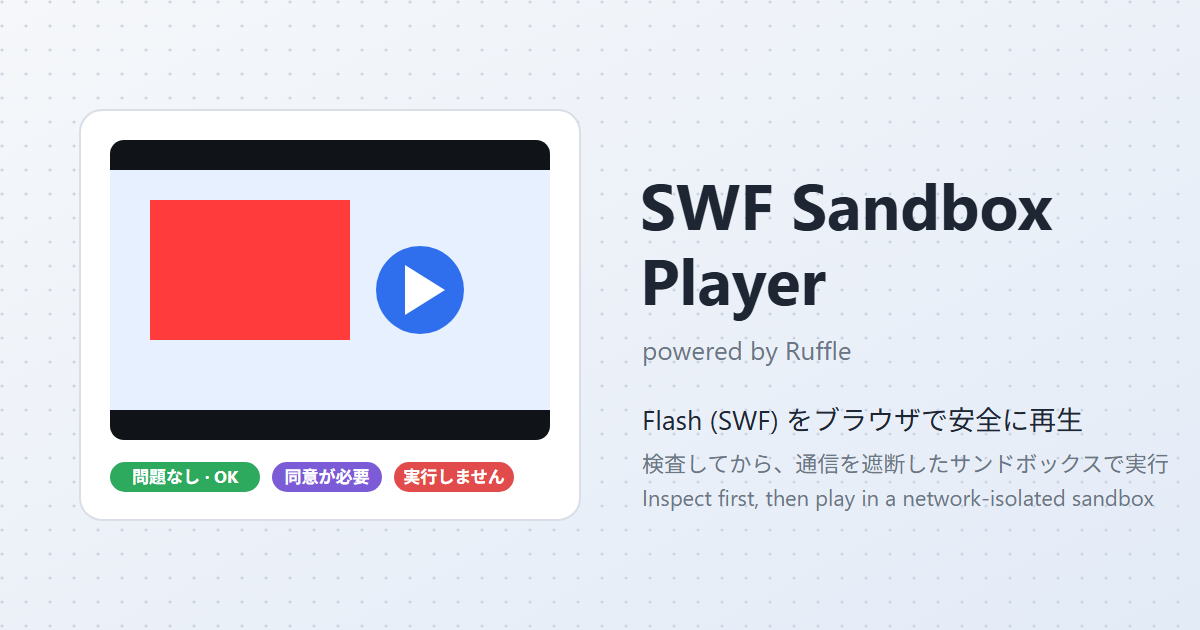
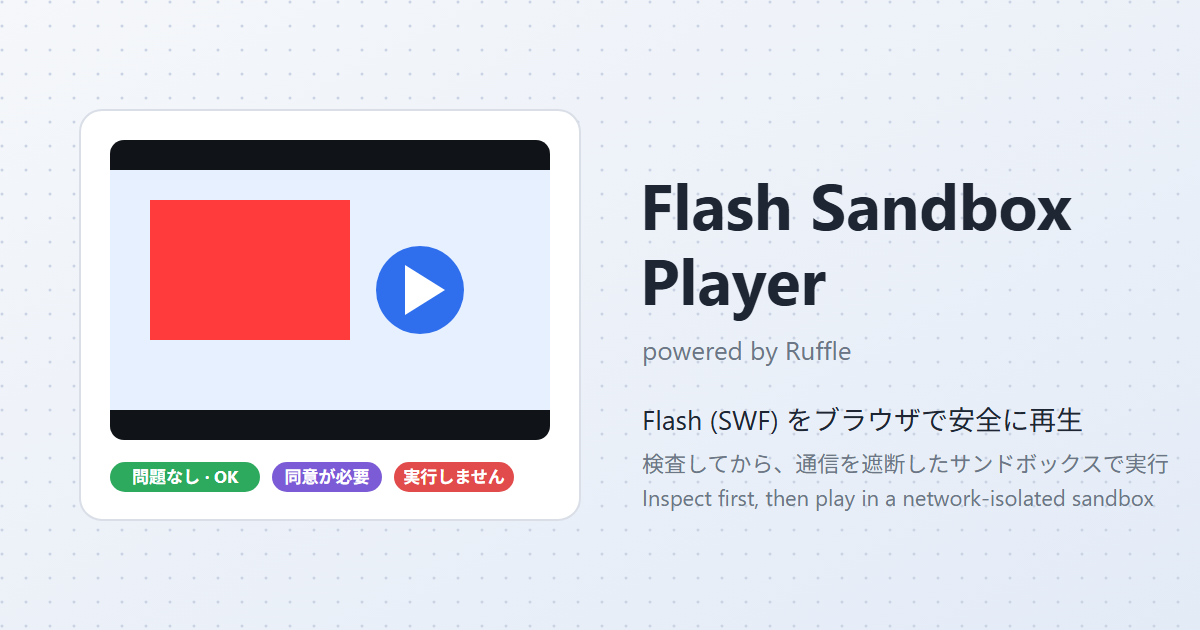
サービス名を Flash Sandbox Player に変更、iOS の音声対策、音のテスト用 SWF を追加
- 最初のタップ/クリック時に無音の <audio> を再生して音声セッションを「再生」に切り替える（iframe 内）
- ホストページでも audioSession を playback に設定
- ドロップ領域に音のテスト用 SWF（440Hz）のダウンロードリンク
- 名称・OGP・OG 画像・README・パッケージ名を Flash Sandbox Player に

Changed region(s): [[0.5242, 0.2714, 0.8942, 0.3921]]

diff --git a/public/i18n.js b/public/i18n.js
@@ -201,6 +201,7 @@ S.ja = {
   "btn.fullscreen": "全画面",
   "st.audioSuspended": "音声はまだ有効になっていません。再生画面を一度クリックすると有効になります。",
   "st.audioSuspendedTouch": "音声はまだ有効になっていません。再生画面を一度タップすると有効になります。iPhone / iPad で音が出ない場合は、本体横のサイレントスイッチと音量も確認してください。",
+  "dz.soundTest": "音のテスト用 SWF（440Hz の音が 1.5 秒鳴ります）",
 };
 
 S.en = {
@@ -389,6 +390,7 @@ S.en = {
   "btn.fullscreen": "Fullscreen",
   "st.audioSuspended": "Audio is not enabled yet. Click the player once to enable it.",
   "st.audioSuspendedTouch": "Audio is not enabled yet. Tap the player once to enable it. On iPhone / iPad, also check the silent switch and the volume.",
+  "dz.soundTest": "Sound test SWF (plays a 440 Hz tone for 1.5 s)",
 };
 
 S["zh-Hans"] = {
@@ -577,6 +579,7 @@ S["zh-Hans"] = {
   "btn.fullscreen": "全屏",
   "st.audioSuspended": "音频尚未启用。点击一次播放画面即可启用。",
   "st.audioSuspendedTouch": "音频尚未启用。点按一次播放画面即可启用。iPhone / iPad 没有声音时，请同时检查静音开关和音量。",
+  "dz.soundTest": "声音测试用 SWF（播放 1.5 秒的 440 Hz 音）",
 };
 
 S["zh-Hant"] = {
@@ -765,6 +768,7 @@ S["zh-Hant"] = {
   "btn.fullscreen": "全螢幕",
   "st.audioSuspended": "音訊尚未啟用。點一下播放畫面即可啟用。",
   "st.audioSuspendedTouch": "音訊尚未啟用。點一下播放畫面即可啟用。iPhone / iPad 沒有聲音時，請同時檢查靜音開關和音量。",
+  "dz.soundTest": "聲音測試用 SWF（播放 1.5 秒的 440 Hz 音）",
 };
 
 S.ko = {
@@ -953,6 +957,7 @@ S.ko = {
   "btn.fullscreen": "전체 화면",
   "st.audioSuspended": "오디오가 아직 켜지지 않았습니다. 재생 화면을 한 번 클릭하면 켜집니다.",
   "st.audioSuspendedTouch": "오디오가 아직 켜지지 않았습니다. 재생 화면을 한 번 탭하면 켜집니다. iPhone / iPad에서 소리가 나지 않으면 무음 스위치와 음량도 확인하세요.",
+  "dz.soundTest": "소리 테스트용 SWF(440 Hz 음이 1.5초 재생)",
 };
 
 S.es = {
@@ -1141,6 +1146,7 @@ S.es = {
   "btn.fullscreen": "Pantalla completa",
   "st.audioSuspended": "El audio aún no está activado. Haz clic una vez en el reproductor para activarlo.",
   "st.audioSuspendedTouch": "El audio aún no está activado. Toca una vez el reproductor para activarlo. En iPhone / iPad, comprueba también el interruptor de silencio y el volumen.",
+  "dz.soundTest": "SWF de prueba de sonido (reproduce un tono de 440 Hz durante 1,5 s)",
 };
 
 S.fr = {
@@ -1329,6 +1335,7 @@ S.fr = {
   "btn.fullscreen": "Plein écran",
   "st.audioSuspended": "Le son n'est pas encore activé. Cliquez une fois sur le lecteur pour l'activer.",
   "st.audioSuspendedTouch": "Le son n'est pas encore activé. Touchez une fois le lecteur pour l'activer. Sur iPhone / iPad, vérifiez aussi le commutateur silencieux et le volume.",
+  "dz.soundTest": "SWF de test du son (joue un son de 440 Hz pendant 1,5 s)",
 };
 
 S.de = {
@@ -1517,6 +1524,7 @@ S.de = {
   "btn.fullscreen": "Vollbild",
   "st.audioSuspended": "Der Ton ist noch nicht aktiviert. Klicken Sie einmal auf den Player, um ihn zu aktivieren.",
   "st.audioSuspendedTouch": "Der Ton ist noch nicht aktiviert. Tippen Sie einmal auf den Player, um ihn zu aktivieren. Prüfen Sie auf iPhone / iPad auch den Stummschalter und die Lautstärke.",
+  "dz.soundTest": "Ton-Test-SWF (spielt 1,5 s lang einen 440-Hz-Ton)",
 };
 
 S.pt = {
@@ -1705,6 +1713,7 @@ S.pt = {
   "btn.fullscreen": "Tela cheia",
   "st.audioSuspended": "O áudio ainda não está ativado. Clique uma vez no player para ativá-lo.",
   "st.audioSuspendedTouch": "O áudio ainda não está ativado. Toque uma vez no player para ativá-lo. No iPhone / iPad, verifique também a chave de silêncio e o volume.",
+  "dz.soundTest": "SWF de teste de som (toca um tom de 440 Hz por 1,5 s)",
 };
 
 S.ru = {
@@ -1893,6 +1902,7 @@ S.ru = {
   "btn.fullscreen": "Во весь экран",
   "st.audioSuspended": "Звук ещё не включён. Нажмите один раз на плеер, чтобы включить его.",
   "st.audioSuspendedTouch": "Звук ещё не включён. Коснитесь плеера один раз, чтобы включить его. На iPhone / iPad также проверьте переключатель беззвучного режима и громкость.",
+  "dz.soundTest": "SWF для проверки звука (воспроизводит тон 440 Гц 1,5 с)",
 };
 
 export const STRINGS = S;

diff --git a/public/index.html b/public/index.html
@@ -4,23 +4,23 @@
   <meta charset="utf-8">
   <meta name="viewport" content="width=device-width, initial-scale=1">
   <meta name="referrer" content="no-referrer">
-  <title>SWF Sandbox Player</title>
+  <title>Flash Sandbox Player</title>
   <meta name="description" content="Flash (SWF) をブラウザで安全に再生。検査してから、通信を遮断したサンドボックスで Ruffle を実行します。Play Flash (SWF) files safely in your browser: inspected first, then run in a network-isolated Ruffle sandbox.">
   <meta name="theme-color" content="#2f6fed">
   <link rel="canonical" href="https://flash-sandbox-player.vercel.app/">
   <meta property="og:type" content="website">
-  <meta property="og:site_name" content="SWF Sandbox Player">
-  <meta property="og:title" content="SWF Sandbox Player – Flash (SWF) をブラウザで安全に再生">
+  <meta property="og:site_name" content="Flash Sandbox Player">
+  <meta property="og:title" content="Flash Sandbox Player – Flash (SWF) をブラウザで安全に再生">
   <meta property="og:description" content="検査してから、通信を遮断したサンドボックスで Ruffle を実行。通信・Cookie・外部連携を含む SWF は実行しません。Inspect first, then play in a network-isolated sandbox.">
   <meta property="og:url" content="https://flash-sandbox-player.vercel.app/">
   <meta property="og:image" content="https://flash-sandbox-player.vercel.app/og.png">
   <meta property="og:image:width" content="1200">
   <meta property="og:image:height" content="630">
-  <meta property="og:image:alt" content="SWF Sandbox Player – powered by Ruffle">
+  <meta property="og:image:alt" content="Flash Sandbox Player – powered by Ruffle">
   <meta property="og:locale" content="ja_JP">
   <meta property="og:locale:alternate" content="en_US">
   <meta name="twitter:card" content="summary_large_image">
-  <meta name="twitter:title" content="SWF Sandbox Player">
+  <meta name="twitter:title" content="Flash Sandbox Player">
   <meta name="twitter:description" content="Flash (SWF) をブラウザで安全に再生。検査してから、通信を遮断したサンドボックスで実行します。">
   <meta name="twitter:image" content="https://flash-sandbox-player.vercel.app/og.png">
   <link rel="icon" href="data:,">
@@ -29,7 +29,7 @@
 <body>
   <header class="topbar">
     <div class="topbar-text">
-      <h1>SWF Sandbox Player <span class="sub">powered by Ruffle</span></h1>
+      <h1>Flash Sandbox Player <span class="sub">powered by Ruffle</span></h1>
       <p class="tagline" data-i18n="tagline">SWF ファイルをドラッグ＆ドロップすると、検査してから安全な設定で再生します。</p>
     </div>
     <label class="langbox">
@@ -48,6 +48,7 @@
           <span data-i18n="dz.select">ファイルを選択</span>
           <input id="fileInput" type="file" accept=".swf,application/x-shockwave-flash" hidden>
         </label>
+        <p class="dz-sample"><a href="./samples/sound-test.swf" download="sound-test.swf" data-i18n="dz.soundTest">音のテスト用 SWF（440Hz の音が 1.5 秒鳴ります）</a></p>
       </div>
 
       <section id="result" class="card hidden" aria-live="polite">

diff --git a/public/player.js b/public/player.js
@@ -15,6 +15,32 @@
   // iOS 17+ / Safari: Web Audio をサイレントスイッチの影響を受けない「再生」カテゴリにする（Ruffle も同じ設定をするが先に行う）
   try { if ("audioSession" in navigator) navigator.audioSession.type = "playback"; } catch { /* ignore */ }
 
+  // iOS では、ユーザー操作中に HTML の <audio> を一度再生すると音声セッションが「再生」に切り替わり、
+  // サイレントスイッチが入っていても Web Audio が鳴るようになる（audioSession API が無い iOS 16 以前の対策）。
+  // Ruffle は audioSession がある環境ではこの処理を省くが、iframe 内では効かない可能性があるため自前でも行う。
+  let audioUnlocked = false;
+  function unlockAudio() {
+    if (audioUnlocked) return;
+    audioUnlocked = true;
+    try { if ("audioSession" in navigator) navigator.audioSession.type = "playback"; } catch { /* ignore */ }
+    try {
+      const rate = 8000, n = 800; // 0.1 秒の無音
+      const buf = new ArrayBuffer(44 + n);
+      const v = new DataView(buf);
+      const str = (o, s) => { for (let i = 0; i < s.length; i++) v.setUint8(o + i, s.charCodeAt(i)); };
+      str(0, "RIFF"); v.setUint32(4, 36 + n, true); str(8, "WAVE"); str(12, "fmt "); v.setUint32(16, 16, true);
+      v.setUint16(20, 1, true); v.setUint16(22, 1, true); v.setUint32(24, rate, true); v.setUint32(28, rate, true);
+      v.setUint16(32, 1, true); v.setUint16(34, 8, true); str(36, "data"); v.setUint32(40, n, true);
+      for (let i = 0; i < n; i++) v.setUint8(44 + i, 128);
+      const url = URL.createObjectURL(new Blob([buf], { type: "audio/wav" }));
+      const el = new Audio(url);
+      el.setAttribute("playsinline", "");
+      const done = () => { URL.revokeObjectURL(url); };
+      el.play().then(done, done);
+    } catch { /* ignore */ }
+  }
+  for (const ev of ["touchend", "click", "keydown"]) document.addEventListener(ev, unlockAudio, { capture: true, passive: true });
+
   // Ruffle のミュート解除オーバーレイ（音声コンテキストが suspended の間だけ表示される）を監視し、親に状態を知らせる
   let audioTimer = null;
   function watchAudio() {

diff --git a/test/scanner.test.js b/test/scanner.test.js
@@ -333,6 +333,15 @@ fs.writeFileSync(path.join(outDir, "consent-sharedobject.swf"), buildSwf([setBg(
 try { fs.unlinkSync(path.join(outDir, "blocked-sharedobject.swf")); } catch { /* none */ }
 fs.writeFileSync(path.join(outDir, "blocked-as3-urlloader.swf"), buildSwf([fileAttrs(0x08), ...benign, doAbc(abc({ strings: ["flash.net", "URLLoader"], namespaces: [1], multinames: [[1, 2]] }))]));
 fs.writeFileSync(path.join(outDir, "ok-jp-devicefont.swf"), jpSwf);
+// 音付きサンプル: 440Hz の正弦波 1.5 秒（DefineSound: 非圧縮 16bit mono 11025Hz）+ StartSound
+{
+  const rate = 11025, secs = 1.5, n = Math.floor(rate * secs);
+  const pcm = [];
+  for (let i = 0; i < n; i++) { const v = Math.round(Math.sin(2 * Math.PI * 440 * i / rate) * 12000 * Math.min(1, (n - i) / 2000)); pcm.push(v & 0xff, (v >> 8) & 0xff); }
+  const defineSound = tag(14, [...u16(2), 0x3a /* format 3 (LE PCM), rate 1 (11kHz), 16bit, mono */, ...u32(n), ...pcm]);
+  const startSound = tag(15, [...u16(2), 0x00]);
+  fs.writeFileSync(path.join(outDir, "ok-sound.swf"), buildSwf([setBg(230, 240, 255), defineShapeRect(1), placeObject2(1, 1), startSound, showFrame()].map((x, i) => i === 1 ? [defineSound, x].flat() : x)));
+}
 fs.writeFileSync(path.join(outDir, "ok-sjis-v5.swf"), sjisV5);
 fs.writeFileSync(path.join(outDir, "warn-fscommand.swf"), buildSwf([...benign, doAction(actionsConstantPool(["fscommand", "fullscreen"]))]));
 console.log(`\nサンプル SWF を ${outDir} に書き出しました`);

diff --git a/test/browser.test.js b/test/browser.test.js
@@ -15,7 +15,7 @@ const args = process.argv.slice(2);
 const argOf = (k, d) => { const i = args.indexOf(k); return i >= 0 ? args[i + 1] : d; };
 
 const BASE_URL = argOf("--url", "http://127.0.0.1:8787/");
-const OUT_DIR = argOf("--out", path.join(os.tmpdir(), "swf-sandbox-player-test"));
+const OUT_DIR = argOf("--out", path.join(os.tmpdir(), "flash-sandbox-player-test"));
 const BROWSER = argOf("--browser", [
   "C:\\Program Files\\Google\\Chrome\\Application\\chrome.exe",
   "C:\\Program Files (x86)\\Google\\Chrome\\Application\\chrome.exe",
@@ -131,7 +131,7 @@ async function main() {
   await cdp.send("Page.navigate", { url: BASE_URL }, page);
   await sleep(1500);
   const title = await evalIn(cdp, page, "document.title");
-  if (title !== "SWF Sandbox Player") throw new Error(`ページを開けません: title=${title}`);
+  if (title !== "Flash Sandbox Player") throw new Error(`ページを開けません: title=${title}`);
   // テストは日本語の文言を前提にしているので、ヘッドレス環境の言語に関わらず日本語に固定する
   await evalIn(cdp, page, "window.__swfPlayer.setLanguage('ja')");
 

diff --git a/public/app.js b/public/app.js
@@ -834,6 +834,9 @@ fullscreenBtn.addEventListener("click", () => {
 const isIOS = /iP(hone|ad|od)/.test(navigator.userAgent) || (navigator.platform === "MacIntel" && navigator.maxTouchPoints > 1);
 if (isIOS) { fileInput.removeAttribute("accept"); fontInput.removeAttribute("accept"); }
 
+// iOS 17+ / Safari 17+: ページの音声セッションを「再生」にして、サイレントスイッチの影響を受けないようにする
+try { if ("audioSession" in navigator) navigator.audioSession.type = "playback"; } catch { /* ignore */ }
+
 initLanguage();
 loadSettings();
 if (!Array.isArray(settings.keymap)) settings.keymap = [];

diff --git a/server.js b/server.js
@@ -203,6 +203,6 @@ const server = http.createServer((req, res) => {
 });
 
 server.listen(PORT, HOST, () => {
-  console.log(`SWF Sandbox Player: http://${HOST}:${PORT}/`);
+  console.log(`Flash Sandbox Player: http://${HOST}:${PORT}/`);
   console.log(HOST === "127.0.0.1" || HOST === "localhost" ? "(ローカルのみ待ち受け。公開する場合は HOST=0.0.0.0 を指定し、HTTPS のリバースプロキシ配下で運用してください)" : "(外部からの接続を受け付けています)");
 });

diff --git a/public/style.css b/public/style.css
@@ -93,6 +93,8 @@ body {
 .dz-icon { font-size: 30px; color: var(--accent); line-height: 1; }
 .dz-title { font-size: 16px; font-weight: 600; margin: 6px 0 2px; }
 .dz-or { color: var(--muted); margin: 2px 0 8px; font-size: 13px; }
+.dz-sample { margin: 10px 0 0; font-size: 12px; }
+.dz-sample a { color: var(--muted); text-decoration: underline; }
 
 .btn {
   display: inline-block;

diff --git a/README.md b/README.md
@@ -1,4 +1,4 @@
-# SWF Sandbox Player
+# Flash Sandbox Player
 
 サポートの終了した Adobe Flash の SWF ファイルを、ブラウザにドラッグ＆ドロップするだけで再生できるプレイヤーです。手元の PC でもサーバー上でも動かせます。
 再生エンジンには [Ruffle](https://ruffle.rs) を使い、**外部サイトへの通信や Cookie（SharedObject）へのアクセスを行う SWF は実行しません**。
